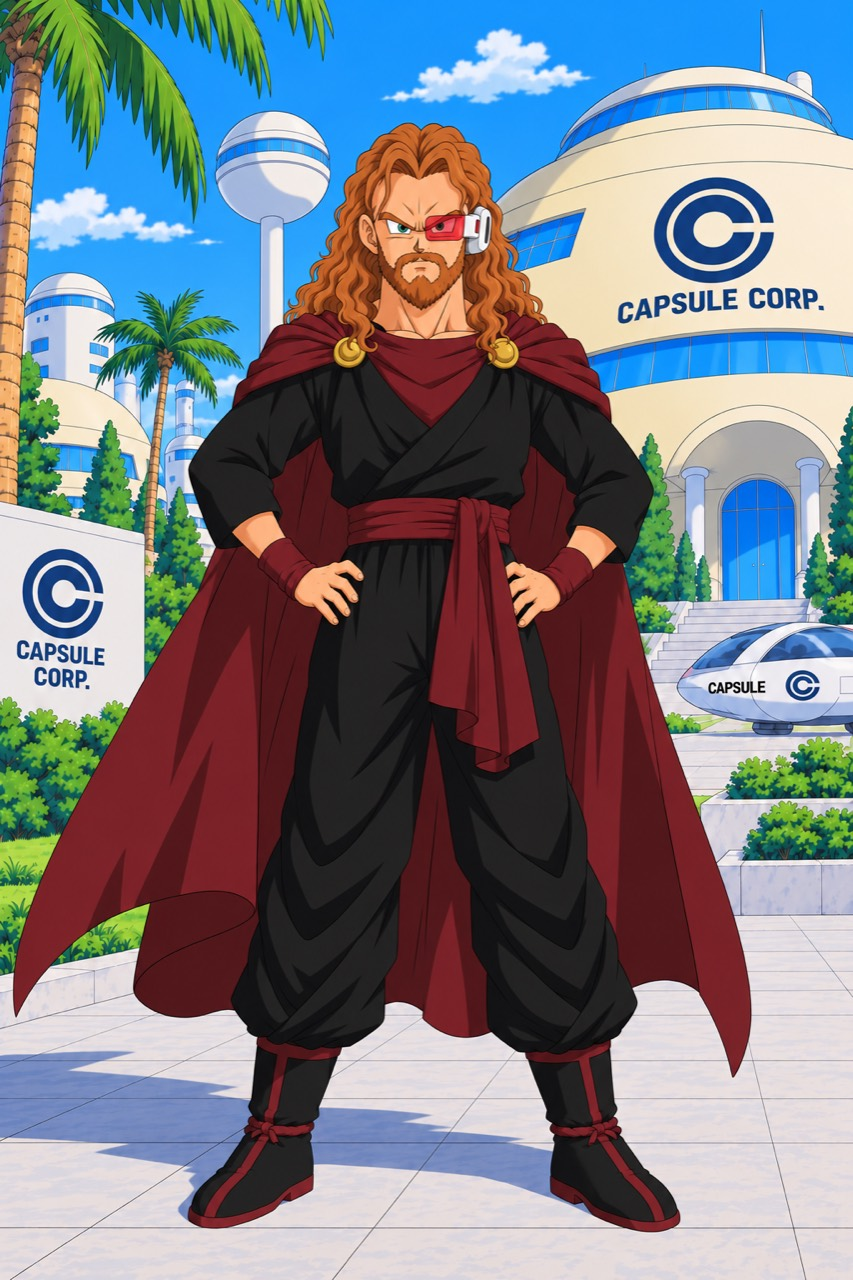
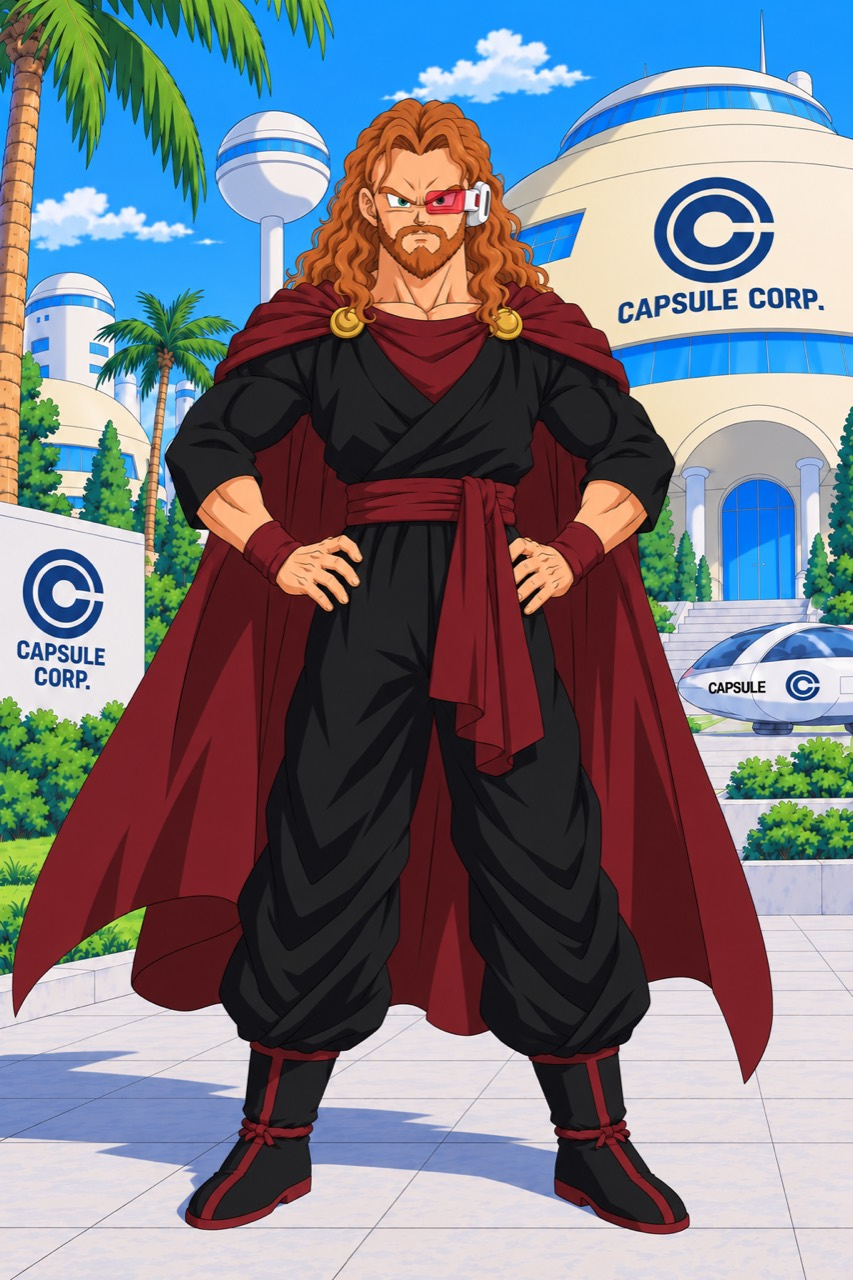
Update campaign through chamber exit and refresh character portrait

diff --git a/index.html b/index.html
@@ -3,14 +3,14 @@
 <meta charset="utf-8"><meta name="viewport" content="width=device-width,initial-scale=1,viewport-fit=cover"><meta name="theme-color" content="#ef7914"><meta name="apple-mobile-web-app-capable" content="yes"><meta name="apple-mobile-web-app-status-bar-style" content="black-translucent">
 <meta name="description" content="A new world. A new you. Zero's Dragon Ball Isekai adventure.">
 <title>Dragon Ball Stories</title>
-<link rel="icon" type="image/svg+xml" href="./dragon-ball.svg?v=d2cedcda33d3fc04804da58b"><link rel="apple-touch-icon" href="./icon-180.png?v=d2cedcda33d3fc04804da58b"><link rel="manifest" href="./app.webmanifest?v=d2cedcda33d3fc04804da58b"><link rel="preload" href="./bangers.ttf?v=d2cedcda33d3fc04804da58b" as="font" type="font/ttf" crossorigin><link rel="stylesheet" href="./styles.css?v=d2cedcda33d3fc04804da58b"><script src="./updates.js?v=d2cedcda33d3fc04804da58b" defer></script><script src="./music.js?v=d2cedcda33d3fc04804da58b" defer></script><script src="./app.js?v=d2cedcda33d3fc04804da58b" defer></script>
-<meta name="app-release" content="d2cedcda33d3fc04804da58b">
-<script src="./launch.js?v=d2cedcda33d3fc04804da58b" defer></script></head><body data-page="overview" class="launch-pending">
+<link rel="icon" type="image/svg+xml" href="./dragon-ball.svg?v=b48190a781feb93eef620f79"><link rel="apple-touch-icon" href="./icon-180.png?v=b48190a781feb93eef620f79"><link rel="manifest" href="./app.webmanifest?v=b48190a781feb93eef620f79"><link rel="preload" href="./bangers.ttf?v=b48190a781feb93eef620f79" as="font" type="font/ttf" crossorigin><link rel="stylesheet" href="./styles.css?v=b48190a781feb93eef620f79"><script src="./updates.js?v=b48190a781feb93eef620f79" defer></script><script src="./music.js?v=b48190a781feb93eef620f79" defer></script><script src="./app.js?v=b48190a781feb93eef620f79" defer></script>
+<meta name="app-release" content="b48190a781feb93eef620f79">
+<script src="./launch.js?v=b48190a781feb93eef620f79" defer></script></head><body data-page="overview" class="launch-pending">
 <dialog id="launch-dialog" class="wish-screen" open aria-labelledby="launch-title"><div class="wish-grain" aria-hidden="true"></div><div class="wish-content"><h1 id="launch-title">DRAGON BALL<span>STORIES</span></h1><button id="launch-adventure" class="wish-trigger" aria-label="Launch your adventure"><svg class="wish-orbit" viewBox="0 0 520 520" aria-hidden="true"><defs><radialGradient id="wish-halo"><stop stop-color="#fffdf0" stop-opacity="1"/><stop offset=".4" stop-color="#fff2a3" stop-opacity=".85"/><stop offset="1" stop-color="#fff2a3" stop-opacity="0"/></radialGradient><radialGradient id="wish-flare"><stop stop-color="#fffef3"/><stop offset=".7" stop-color="#fff4bf"/><stop offset="1" stop-color="#fff4bf" stop-opacity="0"/></radialGradient><radialGradient id="orb" cx="34%" cy="26%" r="76%"><stop stop-color="#fff7b4"/><stop offset=".32" stop-color="#ffcd43"/><stop offset=".72" stop-color="#f58a08"/><stop offset="1" stop-color="#c55005"/></radialGradient></defs><circle class="orbit-guide" cx="260" cy="260" r="179"/><circle class="orbit-guide inner" cx="260" cy="260" r="123"/><g class="wish-ball" style="--ball:0" transform="translate(260.000 81.000)"><g class="ball-flight"><circle class="ball-aura" r="85" fill="url(#wish-halo)"/><circle r="35" fill="url(#orb)" stroke="#7e300d" stroke-width="2"/><g fill="#b72b18"><polygon points="0.00,-5.00 1.26,-1.74 4.76,-1.55 2.04,0.66 2.94,4.05 0.00,2.15 -2.94,4.05 -2.04,0.66 -4.76,-1.55 -1.26,-1.74"/></g><circle class="ball-flare" r="37" fill="url(#wish-flare)"/></g></g><g class="wish-ball" style="--ball:1" transform="translate(399.948 148.395)"><g class="ball-flight"><circle class="ball-aura" r="85" fill="url(#wish-halo)"/><circle r="35" fill="url(#orb)" stroke="#7e300d" stroke-width="2"/><g fill="#b72b18"><polygon points="-8.00,-5.00 -6.74,-1.74 -3.24,-1.55 -5.96,0.66 -5.06,4.05 -8.00,2.15 -10.94,4.05 -10.04,0.66 -12.76,-1.55 -9.26,-1.74"/><polygon points="8.00,-5.00 9.26,-1.74 12.76,-1.55 10.04,0.66 10.94,4.05 8.00,2.15 5.06,4.05 5.96,0.66 3.24,-1.55 6.74,-1.74"/></g><circle class="ball-flare" r="37" fill="url(#wish-flare)"/></g></g><g class="wish-ball" style="--ball:2" transform="translate(434.512 299.831)"><g class="ball-flight"><circle class="ball-aura" r="85" fill="url(#wish-halo)"/><circle r="35" fill="url(#orb)" stroke="#7e300d" stroke-width="2"/><g fill="#b72b18"><polygon points="0.00,-13.00 1.26,-9.74 4.76,-9.55 2.04,-7.34 2.94,-3.95 0.00,-5.85 -2.94,-3.95 -2.04,-7.34 -4.76,-9.55 -1.26,-9.74"/><polygon points="-9.00,2.00 -7.74,5.26 -4.24,5.45 -6.96,7.66 -6.06,11.05 -9.00,9.15 -11.94,11.05 -11.04,7.66 -13.76,5.45 -10.26,5.26"/><polygon points="9.00,2.00 10.26,5.26 13.76,5.45 11.04,7.66 11.94,11.05 9.00,9.15 6.06,11.05 6.96,7.66 4.24,5.45 7.74,5.26"/></g><circle class="ball-flare" r="37" fill="url(#wish-flare)"/></g></g><g class="wish-ball" style="--ball:3" transform="translate(337.665 421.273)"><g class="ball-flight"><circle class="ball-aura" r="85" fill="url(#wish-halo)"/><circle r="35" fill="url(#orb)" stroke="#7e300d" stroke-width="2"/><g fill="#b72b18"><polygon points="-8.00,-13.00 -6.74,-9.74 -3.24,-9.55 -5.96,-7.34 -5.06,-3.95 -8.00,-5.85 -10.94,-3.95 -10.04,-7.34 -12.76,-9.55 -9.26,-9.74"/><polygon points="8.00,-13.00 9.26,-9.74 12.76,-9.55 10.04,-7.34 10.94,-3.95 8.00,-5.85 5.06,-3.95 5.96,-7.34 3.24,-9.55 6.74,-9.74"/><polygon points="-8.00,3.00 -6.74,6.26 -3.24,6.45 -5.96,8.66 -5.06,12.05 -8.00,10.15 -10.94,12.05 -10.04,8.66 -12.76,6.45 -9.26,6.26"/><polygon points="8.00,3.00 9.26,6.26 12.76,6.45 10.04,8.66 10.94,12.05 8.00,10.15 5.06,12.05 5.96,8.66 3.24,6.45 6.74,6.26"/></g><circle class="ball-flare" r="37" fill="url(#wish-flare)"/></g></g><g class="wish-ball" style="--ball:4" transform="translate(182.335 421.273)"><g class="ball-flight"><circle class="ball-aura" r="85" fill="url(#wish-halo)"/><circle r="35" fill="url(#orb)" stroke="#7e300d" stroke-width="2"/><g fill="#b72b18"><polygon points="-10.00,-15.00 -8.74,-11.74 -5.24,-11.55 -7.96,-9.34 -7.06,-5.95 -10.00,-7.85 -12.94,-5.95 -12.04,-9.34 -14.76,-11.55 -11.26,-11.74"/><polygon points="10.00,-15.00 11.26,-11.74 14.76,-11.55 12.04,-9.34 12.94,-5.95 10.00,-7.85 7.06,-5.95 7.96,-9.34 5.24,-11.55 8.74,-11.74"/><polygon points="0.00,-5.00 1.26,-1.74 4.76,-1.55 2.04,0.66 2.94,4.05 0.00,2.15 -2.94,4.05 -2.04,0.66 -4.76,-1.55 -1.26,-1.74"/><polygon points="-10.00,5.00 -8.74,8.26 -5.24,8.45 -7.96,10.66 -7.06,14.05 -10.00,12.15 -12.94,14.05 -12.04,10.66 -14.76,8.45 -11.26,8.26"/><polygon points="10.00,5.00 11.26,8.26 14.76,8.45 12.04,10.66 12.94,14.05 10.00,12.15 7.06,14.05 7.96,10.66 5.24,8.45 8.74,8.26"/></g><circle class="ball-flare" r="37" fill="url(#wish-flare)"/></g></g><g class="wish-ball" style="--ball:5" transform="translate(85.488 299.831)"><g class="ball-flight"><circle class="ball-aura" r="85" fill="url(#wish-halo)"/><circle r="35" fill="url(#orb)" stroke="#7e300d" stroke-width="2"/><g fill="#b72b18"><polygon points="-10.00,-16.00 -8.74,-12.74 -5.24,-12.55 -7.96,-10.34 -7.06,-6.95 -10.00,-8.85 -12.94,-6.95 -12.04,-10.34 -14.76,-12.55 -11.26,-12.74"/><polygon points="10.00,-16.00 11.26,-12.74 14.76,-12.55 12.04,-10.34 12.94,-6.95 10.00,-8.85 7.06,-6.95 7.96,-10.34 5.24,-12.55 8.74,-12.74"/><polygon points="-10.00,-5.00 -8.74,-1.74 -5.24,-1.55 -7.96,0.66 -7.06,4.05 -10.00,2.15 -12.94,4.05 -12.04,0.66 -14.76,-1.55 -11.26,-1.74"/><polygon points="10.00,-5.00 11.26,-1.74 14.76,-1.55 12.04,0.66 12.94,4.05 10.00,2.15 7.06,4.05 7.96,0.66 5.24,-1.55 8.74,-1.74"/><polygon points="-10.00,6.00 -8.74,9.26 -5.24,9.45 -7.96,11.66 -7.06,15.05 -10.00,13.15 -12.94,15.05 -12.04,11.66 -14.76,9.45 -11.26,9.26"/><polygon points="10.00,6.00 11.26,9.26 14.76,9.45 12.04,11.66 12.94,15.05 10.00,13.15 7.06,15.05 7.96,11.66 5.24,9.45 8.74,9.26"/></g><circle class="ball-flare" r="37" fill="url(#wish-flare)"/></g></g><g class="wish-ball" style="--ball:6" transform="translate(120.052 148.395)"><g class="ball-flight"><circle class="ball-aura" r="85" fill="url(#wish-halo)"/><circle r="35" fill="url(#orb)" stroke="#7e300d" stroke-width="2"/><g fill="#b72b18"><polygon points="0.00,-5.00 1.26,-1.74 4.76,-1.55 2.04,0.66 2.94,4.05 0.00,2.15 -2.94,4.05 -2.04,0.66 -4.76,-1.55 -1.26,-1.74"/><polygon points="16.00,-5.00 17.26,-1.74 20.76,-1.55 18.04,0.66 18.94,4.05 16.00,2.15 13.06,4.05 13.96,0.66 11.24,-1.55 14.74,-1.74"/><polygon points="8.00,8.86 9.26,12.12 12.76,12.31 10.04,14.52 10.94,17.90 8.00,16.01 5.06,17.90 5.96,14.52 3.24,12.31 6.74,12.12"/><polygon points="-8.00,8.86 -6.74,12.12 -3.24,12.31 -5.96,14.52 -5.06,17.90 -8.00,16.01 -10.94,17.90 -10.04,14.52 -12.76,12.31 -9.26,12.12"/><polygon points="-16.00,-5.00 -14.74,-1.74 -11.24,-1.55 -13.96,0.66 -13.06,4.05 -16.00,2.15 -18.94,4.05 -18.04,0.66 -20.76,-1.55 -17.26,-1.74"/><polygon points="-8.00,-18.86 -6.74,-15.60 -3.24,-15.40 -5.96,-13.19 -5.06,-9.81 -8.00,-11.71 -10.94,-9.81 -10.04,-13.19 -12.76,-15.40 -9.26,-15.60"/><polygon points="8.00,-18.86 9.26,-15.60 12.76,-15.40 10.04,-13.19 10.94,-9.81 8.00,-11.71 5.06,-9.81 5.96,-13.19 3.24,-15.40 6.74,-15.60"/></g><circle class="ball-flare" r="37" fill="url(#wish-flare)"/></g></g></svg><span class="wish-center"><span class="wish-mark"><span class="wish-touch-glow" aria-hidden="true"></span><span class="wish-glyph">願</span></span><span class="wish-invite">TAP TO BEGIN</span></span></button></div></dialog>
 
 <div class="scene" aria-hidden="true"></div><div class="scene-shade" aria-hidden="true"></div><div class="motes" aria-hidden="true"><i></i><i></i><i></i><i></i><i></i></div>
 <a class="skip-link" href="#main">Skip to content</a>
-<header class="game-header"><a class="brand" href="#overview" aria-label="Dragon Ball Stories home"><img src="./dragon-ball.svg?v=d2cedcda33d3fc04804da58b" width="34" height="34" alt=""><span>DB <b>STORIES</b></span></a><nav id="navigation" aria-label="Main navigation"></nav><div class="header-tools"><button class="hud-button" data-search aria-label="Search your adventure"><svg viewBox="0 0 24 24" aria-hidden="true"><circle cx="10" cy="10" r="6"/><path d="m15 15 5 5"/></svg></button><span class="player-chip"><span>PLAYER 01</span><strong class="user-chip">Zero</strong></span></div></header>
+<header class="game-header"><a class="brand" href="#overview" aria-label="Dragon Ball Stories home"><img src="./dragon-ball.svg?v=b48190a781feb93eef620f79" width="34" height="34" alt=""><span>DB <b>STORIES</b></span></a><nav id="navigation" aria-label="Main navigation"></nav><div class="header-tools"><button class="hud-button" data-search aria-label="Search your adventure"><svg viewBox="0 0 24 24" aria-hidden="true"><circle cx="10" cy="10" r="6"/><path d="m15 15 5 5"/></svg></button><span class="player-chip"><span>PLAYER 01</span><strong class="user-chip">Zero</strong></span></div></header>
 <main id="main" tabindex="-1"><div class="loading" role="status">Your adventure is loading…</div></main>
 <footer class="game-footer"><div class="control-hints"><span><kbd>↑ ↓</kbd> Navigate</span><span><kbd>Enter</kbd> Select</span><span><kbd>Esc</kbd> Main menu</span></div><span id="campaign-status">Loading story records…</span><div class="preferences"><button id="music-toggle" aria-pressed="true">Music on</button><button id="sound-toggle" aria-pressed="true">Sound on</button><button id="motion-toggle" aria-pressed="false">Motion on</button><button data-about>About</button></div></footer>
 <div id="update-notice" class="update-notice" role="status" aria-live="polite" hidden></div>

diff --git a/styles.css b/styles.css
@@ -1,6 +1,6 @@
-@font-face{font-family:Bangers;src:url('./bangers.ttf?v=d2cedcda33d3fc04804da58b') format('truetype');font-display:swap}
+@font-face{font-family:Bangers;src:url('./bangers.ttf?v=b48190a781feb93eef620f79') format('truetype');font-display:swap}
 :root{--ink:#11343d;--paper:#fff9e9;--yellow:#ffdd47;--orange:#ffa21c;--muted:#557568;font:15px 'Segoe UI',Arial,sans-serif;color:var(--ink);color-scheme:light}*{box-sizing:border-box}body{margin:0;min-width:300px;background:#153b43;isolation:isolate}button,input,textarea{font:inherit}button,a,summary{touch-action:manipulation}button{cursor:pointer;color:inherit}a{color:inherit;text-decoration:none}h1,h2,h3,p{margin:0}h1,h2,.brand,.menu-title,.stage-name{font-family:Bangers,'Arial Black',sans-serif;font-weight:400;letter-spacing:1px}p{line-height:1.65}em{font-style:normal}svg{width:24px;height:24px;fill:none;stroke:currentColor;stroke-width:1.8;stroke-linecap:round;stroke-linejoin:round;flex-shrink:0}img{max-width:100%}button:focus-visible,a:focus-visible,input:focus-visible,summary:focus-visible,textarea:focus-visible{outline:3px solid #16c7d2;outline-offset:5px}[hidden]{display:none!important}.sr-only{position:absolute;width:1px;height:1px;overflow:hidden;clip:rect(0,0,0,0)}.skip-link{position:fixed;left:15px;top:-80px;z-index:100;background:var(--yellow);padding:15px}.skip-link:focus{top:15px}
-.scene,.scene-shade,.motes{position:fixed;inset:0;pointer-events:none}.scene{z-index:-3;background:url('./menu-world.webp?v=d2cedcda33d3fc04804da58b') center/cover no-repeat;animation:drift 30s ease-in-out infinite alternate;transform:scale(1.025)}.scene-shade{z-index:-2;background:linear-gradient(90deg,#05242e80,transparent 54%),linear-gradient(0deg,#06232eef,transparent 65%)}body:not([data-page=overview]) .scene-shade{background:linear-gradient(110deg,#03202de6,#093e43bd)}.motes{z-index:-1;overflow:hidden}.motes i{position:absolute;width:5px;height:5px;left:20%;top:100%;border-radius:50%;background:#fff7a3;box-shadow:0 0 18px #ffffa4;animation:float-up 16s linear infinite}.motes i:nth-child(2){left:65%;animation-delay:-4s}.motes i:nth-child(3){left:43%;animation-delay:-11s}.motes i:nth-child(4){left:84%;animation-delay:-7s}.motes i:nth-child(5){left:9%;animation-delay:-14s}
+.scene,.scene-shade,.motes{position:fixed;inset:0;pointer-events:none}.scene{z-index:-3;background:url('./menu-world.webp?v=b48190a781feb93eef620f79') center/cover no-repeat;animation:drift 30s ease-in-out infinite alternate;transform:scale(1.025)}.scene-shade{z-index:-2;background:linear-gradient(90deg,#05242e80,transparent 54%),linear-gradient(0deg,#06232eef,transparent 65%)}body:not([data-page=overview]) .scene-shade{background:linear-gradient(110deg,#03202de6,#093e43bd)}.motes{z-index:-1;overflow:hidden}.motes i{position:absolute;width:5px;height:5px;left:20%;top:100%;border-radius:50%;background:#fff7a3;box-shadow:0 0 18px #ffffa4;animation:float-up 16s linear infinite}.motes i:nth-child(2){left:65%;animation-delay:-4s}.motes i:nth-child(3){left:43%;animation-delay:-11s}.motes i:nth-child(4){left:84%;animation-delay:-7s}.motes i:nth-child(5){left:9%;animation-delay:-14s}
 .game-header{min-height:78px;padding:16px 38px;display:flex;align-items:center;gap:28px;color:white;border-bottom:1px solid #ffffff24;background:linear-gradient(#06334270,#083b4910);position:relative;z-index:2}.brand{display:flex;align-items:center;gap:10px;white-space:nowrap;font-size:24px;transform:rotate(-2deg)}.brand b{font-weight:400;color:var(--yellow)}.brand img{filter:drop-shadow(2px 3px 0 #123e43)}.header-tools{margin-left:auto;display:flex;align-items:center;gap:24px}.hud-button{display:grid;place-items:center;border:1px solid #ffffff55;border-radius:50%;background:#113b456b;color:white;width:40px;height:40px}.hud-button:hover{color:var(--ink);background:var(--yellow)}.player-chip{display:grid;line-height:1.2;border-left:2px solid var(--orange);padding-left:12px;min-width:74px}.player-chip>span{font-size:9px;letter-spacing:2px;color:#d4edf0}.player-chip strong{font-size:19px;overflow-wrap:anywhere}#navigation{display:flex;gap:5px;align-items:center}.nav-link{display:flex;gap:7px;align-items:center;padding:10px 13px;font-size:12px;font-weight:750;transition:transform .15s,background .15s}.nav-link svg{width:17px;height:17px}.nav-link:hover,.nav-link[aria-current]{background:var(--yellow);color:var(--ink);transform:skew(-5deg)}body[data-page=overview] #navigation{display:none}body[data-page=overview] .brand{font-size:20px;opacity:.8}
 #main{max-width:1440px;margin:auto;min-height:calc(100svh - 132px);padding:32px 54px 40px;outline:0}body[data-page=overview] #main{padding:0;max-width:none}.title-screen{min-height:calc(100svh - 132px);display:grid;grid-template-columns:440px 1fr;padding:28px 6vw 48px;gap:60px;position:relative}.menu-column{position:relative;z-index:1}.title-logo{transform:rotate(-3deg);margin:5px 0 34px 12px;width:max-content;max-width:100%}.logo-kicker{display:block;font-size:10px;font-weight:800;letter-spacing:5px;color:white;margin:0 0 8px 8px;text-shadow:0 1px 3px #12303c}.title-logo h1{line-height:.91;filter:drop-shadow(3px 5px 0 #0b2e36)}.title-logo h1>span{display:block;font-size:clamp(46px,4.6vw,72px);color:var(--yellow);-webkit-text-stroke:1px #63331c;paint-order:stroke fill}.title-logo em{color:#ff961a}.title-logo h1 strong{display:block;font-size:clamp(79px,7.9vw,120px);font-weight:400;letter-spacing:10px;color:white;-webkit-text-stroke:1px #123d46;paint-order:stroke fill}.logo-rule{display:block;background:var(--yellow);padding:5px 10px;margin:9px 0 0 3px;font-size:9px;font-weight:900;letter-spacing:3px;box-shadow:3px 3px 0 #12343c;transform:skew(-8deg)}.game-menu{display:flex;flex-direction:column;gap:13px;max-width:360px}.menu-choice{position:relative;display:flex;align-items:center;gap:14px;padding:8px 24px 9px 16px;min-height:59px;color:white;isolation:isolate;transition:transform .17s,color .17s;outline-offset:8px!important}.menu-choice:before{content:'';position:absolute;inset:0;z-index:-1;background:#10353bed;transform:skew(-10deg);border:1px solid #c8ebdf61;border-left:5px solid #78dacc;box-shadow:5px 6px 0 #001b283a;transition:background .15s}.menu-title{font-size:31px;letter-spacing:1.5px}.menu-number{font-size:10px;font-weight:800;align-self:flex-start;padding-top:5px;opacity:.6}.menu-choice svg{width:22px;height:22px}.menu-arrow{margin-left:auto;font-size:37px;line-height:1}.menu-description{position:absolute;left:58px;top:44px;font-size:10px;font-weight:750;opacity:1;white-space:nowrap}.menu-choice:active{transform:scale(.99)}
 .home-feature{align-self:end;justify-self:end;max-width:480px;color:white;margin-bottom:35px;text-shadow:0 3px 10px #173d42}.chapter-tag{display:inline-block;font-size:10px;font-weight:900;letter-spacing:2px;padding:8px 12px;background:var(--ink);color:var(--yellow);border-left:4px solid var(--orange);text-shadow:none;transform:skew(-6deg)}.home-feature h2{font-size:clamp(48px,5.4vw,78px);line-height:.98;margin:18px 0 14px;transform:rotate(-2deg);text-shadow:3px 4px 0 #12434a,0 4px 30px #073e41}.home-feature h2 em{color:var(--yellow)}.home-feature p{font-size:16px;max-width:380px;font-weight:600;margin-bottom:23px}.primary{display:inline-flex;align-items:center;justify-content:center;gap:22px;background:linear-gradient(110deg,#ffb21e,#ffe064);border:0;border-bottom:4px solid #c4780c;padding:15px 24px;font-size:13px;font-weight:850;box-shadow:4px 4px 0 #112f3945;color:var(--ink);text-shadow:none;max-width:100%;transition:transform .15s,filter .15s}.primary:hover{transform:translateY(-3px);filter:brightness(1.08)}.primary:active{transform:translateY(1px);box-shadow:none}.primary svg{width:19px;height:19px}.launch-button{transform:skew(-5deg)}.launch-button:hover{transform:skew(-5deg) translateY(-3px)}.scene-caption{position:absolute;bottom:16px;right:6vw;font-size:8px;letter-spacing:1.5px;color:#cae5d7b8}.game-footer{min-height:54px;display:flex;align-items:center;gap:20px;justify-content:space-between;padding:13px 38px;background:#082b34e8;color:#deeee6;border-top:1px solid #88cec447;font-size:10px}.control-hints{display:flex;gap:20px}.control-hints span{display:flex;gap:7px;align-items:center}kbd{font:inherit;font-weight:800;border:1px solid #a9c9c580;min-width:23px;text-align:center;padding:3px 5px;box-shadow:0 2px 0 #0004}.preferences{display:flex;gap:15px}.preferences button{font-size:10px;padding:6px 0;color:inherit;background:none;border:0;border-bottom:1px solid transparent}.preferences button:hover,.preferences button[aria-pressed=true]{color:var(--yellow);border-bottom-color:currentColor}#campaign-status{font-size:9px;text-transform:uppercase;letter-spacing:1.5px;color:#d0e8dc}

diff --git a/README.md b/README.md
@@ -6,13 +6,13 @@ A game-style home for Zero's Dragon Ball Isekai, inspired by Capsule Corp equipm
 
 ## Current state
 
-Story in progress through **S052, Day 45 evening**. Zero is human, 26 years and 6 months old and 5′6″ (167.64cm). After another day of gravity training with Vegeta, he is healed and has measured 174 twice. He has found Krillin finishing instruction in a Conton City practice hall; Krillin has invited him in and his reply is pending. Controlled 25× warm-ups and deliberate 50× movement are established. Flight and moving ki control still need work; no field clearance, signature technique or transformation.
+Story in progress through **S064, Day 47, 16 February Age 854, about 09:40**. Zero is human, 27 years and 6 months old and 5′6″ (167.64cm). He has completed 365 subjective days of solo chamber training during one day in Conton. Rested full output is 3,075, with usual suppression near 1,538. He is at equipment services with Krillin, wearing his original outfit and cape after repairs and fitting adjustments. Krillin has asked “Better. Ready?” No next destination or field clearance is established.
 
 This companion records enacted, character-known facts, plus the approved profile/art and explicitly labelled OOC home-timeline references. Private preparation and future plot ideas remain outside this repository. Unpublished fields are not proof that no decision exists.
 
 ## The app
 
-Six screens: main menu, character, story, abilities, inventory and world. An illustrated world, animated selections, keyboard navigation and optional menu sounds make the adventure fun to explore. Includes search, expandable records, a 52-entry journal with the newest moment first, world-category navigation, a current scouter reading and the updated full-height character portrait with a full-art viewer. The one-star Dragon Ball is used for the favicon and home-screen icon. Motion can be paused, and reduced-motion preferences are respected.
+Six screens: main menu, character, story, abilities, inventory and world. An illustrated world, animated selections, keyboard navigation and optional menu sounds make the adventure fun to explore. Includes search, expandable records, a 64-entry journal with the newest moment first, world-category navigation, a current scouter reading and the updated full-height character portrait with a full-art viewer. The one-star Dragon Ball is used for the favicon and home-screen icon. Motion can be paused, and reduced-motion preferences are respected.
 
 The app is a published reference. Send character details and artwork through the chat; there are no device-local character edits or uploads. It checks for new app and story releases automatically when opened or resumed, and every minute while visible. Updates preserve your place and wait for open panels to close. It requires an internet connection and does not install an offline service worker. Open the latest version once to activate automatic updates on an older installation.
 

diff --git a/START-HERE.md b/START-HERE.md
@@ -9,11 +9,11 @@ Read [the narrator guide](NARRATOR-GUIDE.md) for character records, narration an
 3. Read RETCONS.md before relying on older records.
 4. Consult the complete local transcript and private narrator checkpoint through their authorized location before narrating. They are intentionally absent here.
 
-The protagonist is Zero, 26 years and 6 months old, 5′6″. The current scene is **S052, Day 45 evening**: after daily gravity training, healed measured power 174, with Krillin in a Conton City practice hall. Krillin has invited him in; Zero's reply is pending. No field clearance, named technique or transformation has been gained. Publication does not continue the conversation.
+Story in progress through **S064, Day 47, 16 February Age 854, about 09:40**. Zero is human, 27 years and 6 months old and 5′6″ (167.64cm). He has completed 365 subjective days of solo chamber training during one day in Conton. Rested full output is 3,075, with usual suppression near 1,538. He is at equipment services with Krillin, wearing his original outfit and cape after repairs and fitting adjustments. Krillin has asked “Better. Ready?” No next destination or field clearance is established. Publication does not continue the conversation.
 
-The 52-entry journal summarises enacted exchanges using accepted corrections. The complete exact archive stays private. Publish new facts only after they are established and known to Zero; OOC home-timeline labels and the approved profile/art are explicit exceptions, not permission to reveal full dossiers. Future plans remain private.
+The 64-entry journal summarises enacted exchanges using accepted corrections. The complete exact archive stays private. Publish new facts only after they are established and known to Zero; OOC home-timeline labels and the approved profile/art are explicit exceptions, not permission to reveal full dossiers. Future plans remain private.
 
-The approved fictional portrait includes the recovered scouter and latest iris revision. It does not enact a return to Capsule Corp, an equipment acquisition or clothing repair. Decorative scenery and styling do not establish geography or affiliations. Keep real-world identity, location, contacts and identifying biography outside public records.
+The approved fictional portrait shows the post-chamber muscular build, recovered scouter and repaired original clothing. The repairs occurred in S064; the image does not enact a return to Capsule Corp or a new acquisition. Decorative scenery and styling do not establish geography or affiliations. Keep real-world identity, location, contacts and identifying biography outside public records.
 
 ## Maintenance
 

diff --git a/CAMPAIGN-CONFIG.md b/CAMPAIGN-CONFIG.md
@@ -3,20 +3,20 @@
 Generated from campaign.json. Edit that authoritative source, then run build.py.
 
 - Premise: Dragon Ball Isekai.
-- Phase: Training with Vegeta.
+- Phase: Back from the chamber.
 - Protagonist: Zero.
-- Age: 26 years, 6 months.
+- Age: 27 years, 6 months.
 - Height: 5′6″ (167.64 cm).
 - Story identity: Zero. The former name is not recorded or used. Keep identifying real-world details outside public campaign records.
 - Race/species: Human.
 - Role: Supervised Time Patrol trainee.
-- Current rested measured battle power: 174.
-- Condition: Healed after the final senzu of today’s training. Clothes are bloodstained; scouter worn and cape collected. No weights equipped.
-- Character appearance: Athletic build, long curly auburn hair, full auburn beard. Black wrap-front outfit and loose trousers, burgundy sash and wrist wraps, burgundy cape with round gold fasteners, black-and-burgundy boots. The recovered scouter has a red lens; the cape’s hem was torn during the arrival encounter.
-- Canon, continuity and era: Time Patrol hub; local calendar date unconfirmed.
+- Current rested measured battle power: 3075.
+- Condition: Healed, with no lasting functional injury recorded. Original outfit and cape clean, repaired and fitted; scouter worn. No weights or senzu remaining.
+- Character appearance: Considerably greater muscle mass and definition after a year of training. Long curly auburn hair, full auburn beard and green iris. Black wrap-front outfit and loose trousers, burgundy sash and wrist wraps, burgundy cape with round gold fasteners, black-and-burgundy boots and a red-lensed scouter. The original clothes are repaired and fitted to his broader build.
+- Canon, continuity and era: Conton City · Age 854.
 - Arrival: Woke outside Capsule Corp in West City with an unfamiliar athletic body and new clothes. Nappa’s attack left him critically injured. Vegeta intervened, arranged evacuation and later proved to be a Time Patroller. Zero gave his name before losing consciousness.
-- Current location: Conton City · Practice hall.
-- Story date: Day 45 · Evening · Approximately 44 days since awakening.
+- Current location: Conton City · Equipment services.
+- Story date: Day 47 · 16 February, Age 854 · About 09:40.
 - Character artwork: Provided: zero-portrait.jpg.
 - Published audience: public, read-only companion. Character records plus explicitly labelled OOC timeline references.
 

diff --git a/RETCONS.md b/RETCONS.md
@@ -1,12 +1,13 @@
 # Corrections and operative continuity
 
-Reviewed 9 October 2026 through S052. Dated publication rows describe their historical snapshots. Corrections below affect already known events or narration; future plans and private causes are excluded. Original exchanges remain in the private exact archive, except an explicitly withdrawn scene replaced at the player’s request (C016). These corrections advance no story time.
+Reviewed 10 October 2026 through S064. Dated publication rows describe their historical snapshots. Corrections below affect already known events or narration; future plans and private causes are excluded. Original exchanges remain in the private exact archive, except an explicitly withdrawn scene replaced at the player’s request (C016). These corrections advance no story time.
 
 | Record | Effective point | Correction |
 | --- | --- | --- |
 | C089 | All hub scenes | The current hub is Conton City. Earlier Toki Toki City labels refer to the same enacted locations and are corrected; no relocation or time advance. The old city name remains appropriate to Xenoverse 1 history. |
 | C096 | Current age at S052 | Age is 26 years and 6 months at Day 45 evening. Track future subjective ageing from this anchor; no birthday inferred. |
-| S052 | Instructor role | Krillin works for the Patrol as a combat instructor, rather than an active field Patroller. |
+| S052 / S057 | Instructor role | Krillin is the combat instructor for Mr. Satan’s roster, rather than an active field Patroller. |
+| 10 October audit | Publication only | Reconcile through S064: one chamber year completed, age27years6months, full output3,075, usual suppression near1,538, repaired clothing and64 journal entries. Approved post-chamber portrait replaces the earlier art. No scene advancement. |
 | 9 October audit | Publication only | Synchronise records through S052: healed measured 174, Day 45 evening, gravity-training progress and 52 journal entries. Krillin’s invitation awaits a reply; no story time advances. |
 | Profile | Approved profile | Use Zero exclusively; height is exactly 5′6″ / 167.64 cm, replacing the earlier range. The fictional portrait is not a real likeness. |
 | C005 | S010 | Replace the abandoned dispatcher placeholder with Mr. Satan in the ward notification. No separate officer was introduced or later removed in-story. |

diff --git a/CURRENT-CONTINUITY.md b/CURRENT-CONTINUITY.md
@@ -3,21 +3,21 @@
 Generated from campaign.json. Edit that authoritative source, then run build.py.
 
 - Status: Story in progress.
-- Coverage: S052 · Story audit 9 October 2026.
+- Coverage: S064 · Story audit 10 October 2026.
 - Role: Supervised Time Patrol trainee.
-- Current rested measured battle power: 174.
-- Condition: Healed after the final senzu of today’s training. Clothes are bloodstained; scouter worn and cape collected. No weights equipped.
-- Protagonist: Zero, age 26 years, 6 months, height 5′6″ (167.64 cm).
-- Story date: Day 45 · Evening · Approximately 44 days since awakening.
-- Location: Conton City · Practice hall.
-- Immediate situation: After another day of gravity training with Vegeta, Zero has healed and measured 174. He has found Krillin finishing an ordinary practice session.
-- Pending choice: Krillin notices the bloodstained clothes, asks whether Zero received a senzu, and welcomes him in: “I’m finished here. What’s up?” Zero has not answered yet.
-- Latest recorded event: s052.
-- Ability records: 5.
+- Current rested measured battle power: 3075.
+- Condition: Healed, with no lasting functional injury recorded. Original outfit and cape clean, repaired and fitted; scouter worn. No weights or senzu remaining.
+- Protagonist: Zero, age 27 years, 6 months, height 5′6″ (167.64 cm).
+- Story date: Day 47 · 16 February, Age 854 · About 09:40.
+- Location: Conton City · Equipment services.
+- Immediate situation: A full year of solo chamber training is complete. Only a day passed in Conton. Zero has left with Krillin and had his original outfit and cape repaired and fitted to his more muscular build.
+- Pending choice: At the equipment-services doorway, Krillin asks, “Better. Ready?” Zero has not answered or chosen where to go next.
+- Latest recorded event: s064.
+- Ability records: 6.
 - Possession records: 4.
 - Account records: 1.
 - Relationship records: 8.
-- Journal entries: 52.
+- Journal entries: 64.
 - Active/recorded projects: 3.
 
 Empty collections mean no records yet, not zero resources or incapability. Details live in campaign.json. This public checkpoint does not replace the complete local transcript or private narrator state. Publication does not advance story time.

diff --git a/CREDITS.md b/CREDITS.md
@@ -17,7 +17,7 @@ These references informed the design; their screenshots are not distributed with
 - [Dragon Ball Z: Kakarot character menu](https://gamergen.com/actualites/24h-sur-gamergen-telechargements-stadia-video-dragon-ball-kakarot-bonus-red-dead-redemption-2-307589-1) — prominent character art and grouped information.
 - [Official Dragon Ball: Sparking! ZERO menu screenshots](https://dragon-ball-official.com/news/01_4325.html) — character focus, clear selection and compact technique panels.
 
-The interface itself is implemented in HTML, CSS and JavaScript. No game screenshots or game UI textures are bundled. zero-portrait.jpg is the fictional character artwork supplied and approved by the user. Its pixels are unchanged; identifying metadata was removed from the publication copy. The updated portrait includes Zero’s recovered red scouter. Its Capsule Corp background matches the established arrival setting, but does not establish his current location, an affiliation, a new visit or repairs to clothing. The public copy retains the supplied image pixels and dimensions; the original remains private.
+The interface itself is implemented in HTML, CSS and JavaScript. No game screenshots or game UI textures are bundled. zero-portrait.jpg is the fictional character artwork supplied and approved by the user. Its pixels are unchanged; identifying metadata was removed from the publication copy. The post-chamber portrait shows Zero’s increased muscle mass, green iris, recovered red scouter and original clothing repaired in S064. Its Capsule Corp background recalls the arrival setting; it does not establish his current location, an affiliation or a new visit. The public copy retains the supplied image pixels and dimensions; the original remains private.
 
 Unofficial personal fan project. Dragon Ball, Capsule Corporation and related characters belong to their respective rights holders. No affiliation or endorsement. The icon's license does not claim ownership of the underlying franchise.
 
